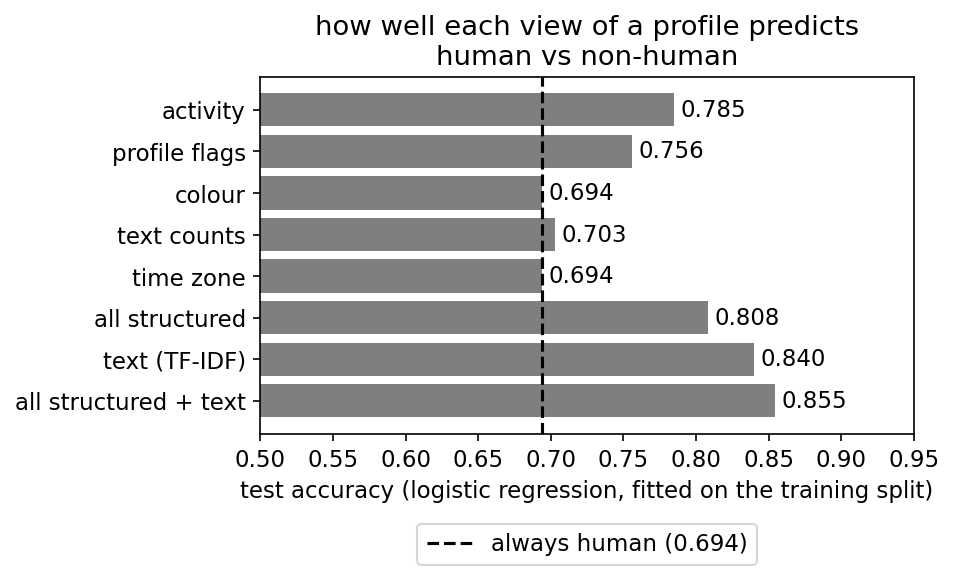
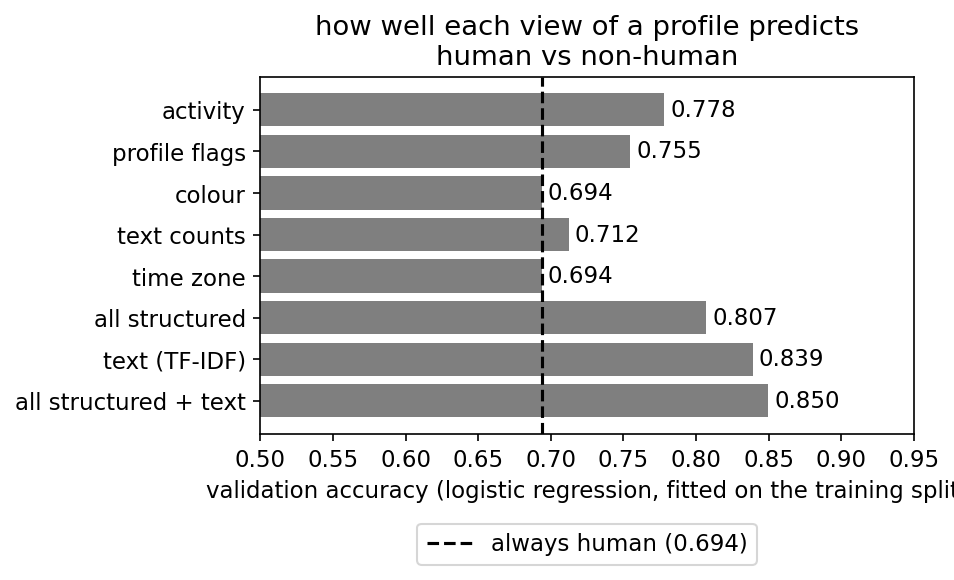
cosmetics change

diff --git a/code/11_amendments.py b/code/11_amendments.py
@@ -82,11 +82,11 @@ def tier_row(g, name):
 
 rows = [tier_row(to_h[to_h["votes"] == v], str(v)) for v in [5, 4, 3, 2, 1]]
 rows += [tier_row(to_h, "all"), tier_row(brands, "all recorded non-human")]
-t108 = pd.DataFrame(rows)
-t108.to_csv(OUT / "amendments_non_human_to_human.csv", index=False)
+non_human_to_human = pd.DataFrame(rows)
+non_human_to_human.to_csv(OUT / "amendments_non_human_to_human.csv", index=False)
 print("\nrecorded non-human -> human: %d | recorded human -> non-human: %d"
       % (len(to_h), (cand["recorded"] == "human").sum()))
-print(t108.to_string(index=False))
+print(non_human_to_human.to_string(index=False))
 print("uploaded image %.1f%% (all recorded non-human %.1f%%) | median favourites %.0f (non-human %.0f, human %.0f)"
       % (100 * (to_h["default_image"] == 0).mean(), 100 * (brands["default_image"] == 0).mean(),
          to_h["fav_number"].median(), brands["fav_number"].median(), humans["fav_number"].median()))
@@ -161,13 +161,13 @@ keep = ["_unit_id", "name", "recorded", "says", "votes", "methods", "fp_desc", "
         "pattern", "action", "reason"]
 suggested[keep].to_csv(OUT / "amendments_suggested.csv", index=False)
 
-t109 = pd.DataFrame([{"pattern": p, "candidates": int((to_nh["pattern"] == p).sum()),
+human_to_non_human = pd.DataFrame([{"pattern": p, "candidates": int((to_nh["pattern"] == p).sum()),
                       "two_or_more_methods": int(((to_nh["pattern"] == p) & (to_nh["votes"] >= 2)).sum()),
                       "suggested_non_human": int(((to_nh["pattern"] == p) & amend_nh).sum())}
                      for p in ["weather channel", "news/feed", "app-written", "forevermore", "other"]])
-t109.loc[len(t109)] = ["all", len(to_nh), int((to_nh["votes"] >= 2).sum()), int(amend_nh.sum())]
-t109.to_csv(OUT / "amendments_human_to_non_human.csv", index=False)
-print(t109.to_string(index=False))
+human_to_non_human.loc[len(human_to_non_human)] = ["all", len(to_nh), int((to_nh["votes"] >= 2).sum()), int(amend_nh.sum())]
+human_to_non_human.to_csv(OUT / "amendments_human_to_non_human.csv", index=False)
+print(human_to_non_human.to_string(index=False))
 
 two = (to_h["votes"] >= 2) & amend_h
 print("\nnon-human -> human: word rule %d; without Foothill_Dance %d amend, %d stay non-human"
@@ -224,8 +224,8 @@ signals = [("first-person word in the description", lab["fp_desc"]),
            ("link in the description", lab["desc_has_url"] == 1),
            ("retweet", lab["has_retweets"] == 1),
            ("all labelled profiles", pd.Series(True, index=lab.index))]
-t110 = pd.DataFrame([{"signal": name, "labelled_profiles": int(m.sum()),
+signals_table = pd.DataFrame([{"signal": name, "labelled_profiles": int(m.sum()),
                       "non_human_pct": round(100 * (lab.loc[m, "label"] == "non_human").mean(), 1)}
                      for name, m in signals])
-t110.to_csv(OUT / "amendments_signals.csv", index=False)
-print("\n" + t110.to_string(index=False))
+signals_table.to_csv(OUT / "amendments_signals.csv", index=False)
+print("\n" + signals_table.to_string(index=False))

diff --git a/code/10_views.py b/code/10_views.py
@@ -22,14 +22,15 @@ MAX_FEATURES = 2000       # same TF-IDF settings as 08_text.py
 
 
 # 1. Load
-# the training and test splits written by 02, and the two text fields
+# the training and validation splits written by 02, and the two text fields; the test split stays
+# untouched here because it was already used once to score the chosen models in 05, 07 and 08
 train = pd.read_csv(PROC / "twitter_train.csv")
-test = pd.read_csv(PROC / "twitter_test.csv")
+test = pd.read_csv(PROC / "twitter_validation.csv")
 text = pd.read_csv(PROC / "twitter_full.csv", usecols=["_unit_id", "desc_clean", "text_clean"]).fillna("")
 train = train.merge(text, on="_unit_id", how="left", validate="one_to_one")
 test = test.merge(text, on="_unit_id", how="left", validate="one_to_one")
 y_train, y_test = train["is_human"].astype(int), test["is_human"].astype(int)
-print("train:", train.shape, "test:", test.shape)
+print("train:", train.shape, "validation:", test.shape)
 
 
 # 2. Views
@@ -67,7 +68,7 @@ def tfidf(part):
 
 
 # 4. Accuracy per view
-# plain logistic regression on the training split, accuracy on the test split
+# plain logistic regression on the training split, accuracy on the validation split
 X = {name: (train[cols].to_numpy(float), test[cols].to_numpy(float)) for name, cols in VIEWS.items()}
 X["text (TF-IDF)"] = (tfidf(train), tfidf(test))
 X["all structured + text"] = (hstack([csr_matrix(X["all structured"][0]), X["text (TF-IDF)"][0]]).tocsr(),
@@ -77,20 +78,20 @@ rows = []
 for name, (X_train, X_test) in X.items():
     model = LogisticRegression(max_iter=3000).fit(X_train, y_train)
     rows.append({"view": name, "features": X_train.shape[1],
-                 "test_accuracy": accuracy_score(y_test, model.predict(X_test))})
+                 "validation_accuracy": accuracy_score(y_test, model.predict(X_test))})
 views = pd.DataFrame(rows)
 baseline = y_test.mean()
 views.to_csv(OUT / "views_accuracy.csv", index=False)
-print("\nlogistic regression per view, test accuracy (always human: %.4f):" % baseline)
+print("\nlogistic regression per view, validation accuracy (always human: %.4f):" % baseline)
 print(views.round(4).to_string(index=False))
 
 plt.figure(figsize=(6.5, 4.2))
-bars = plt.barh(views["view"], views["test_accuracy"], color="tab:gray")
+bars = plt.barh(views["view"], views["validation_accuracy"], color="tab:gray")
 plt.bar_label(bars, fmt="%.3f", padding=3)
 plt.axvline(baseline, color="black", linestyle="--", label="always human (%.3f)" % baseline)
 plt.gca().invert_yaxis()
 plt.xlim(0.5, 0.95)
-plt.xlabel("test accuracy (logistic regression, fitted on the training split)")
+plt.xlabel("validation accuracy (logistic regression, fitted on the training split)")
 plt.title("how well each view of a profile predicts\nhuman vs non-human")
 plt.legend(loc="upper center", bbox_to_anchor=(0.5, -0.22))   # below, clear of the bar labels
 plt.tight_layout()

diff --git a/code/08_text.py b/code/08_text.py
@@ -69,7 +69,7 @@ y_train, y_val, y_test = (part["is_human"].astype(int) for part in [train, val, 
 
 
 # 3. Tokens
-# tokenise and remove stop words (Lab 7 Task 1)
+# tokenise and remove stop words
 def tokens(s):
     return [w for w in nltk.word_tokenize(s) if w not in STOP and len(w) > 2]
 
@@ -81,7 +81,7 @@ print("mean words kept - description:", round(df["desc_tokens"].str.len().mean()
 
 
 # 4. Words by class
-# conditional frequency distribution of the description words (Lab 7 Task 2)
+# conditional frequency distribution of the description words
 label = df["label"]
 pairs = [(lab, w) for lab, toks in zip(label[labelled], df.loc[labelled, "desc_tokens"]) for w in toks]
 cfd = nltk.ConditionalFreqDist(pairs)
@@ -111,7 +111,7 @@ plt.show()
 
 
 # 5. Model comparison
-# TF-IDF + logistic regression per text field, 5-fold CV on the training split (Lab 4)
+# TF-IDF + logistic regression per text field, 5-fold CV on the training split
 # the vectoriser sits inside the pipeline, so its vocabulary is learnt from training rows only
 def text_model(columns):
     tfidf = ColumnTransformer([(c, TfidfVectorizer(max_features=MAX_FEATURES, min_df=5, sublinear_tf=True), c)
@@ -185,7 +185,7 @@ plt.show()
 
 
 # 7. LDA topics
-# topics of the labelled descriptions (Lab 7 Task 3)
+# topics of the labelled descriptions
 docs = df.loc[labelled & (df["desc_tokens"].str.len() >= 3), ["is_human", "desc_tokens"]].copy()
 dictionary = corpora.Dictionary(docs["desc_tokens"])
 dictionary.filter_extremes(no_below=10, no_above=0.4)

diff --git a/code/05_classification.py b/code/05_classification.py
@@ -1,4 +1,4 @@
-# 05_classification.py — decision tree, naive Bayes, KNN, MLP and logistic on the structured features (Lab 4)
+# 05_classification.py — decision tree, naive Bayes, KNN, MLP and logistic on the structured features
 
 from pathlib import Path
 
@@ -157,7 +157,7 @@ plt.show()
 
 
 # 5. t-test between the two best models
-# Lab 4: is the gap in CV accuracy real, or noise?
+# is the gap in CV accuracy real, or noise?
 # logistic regression votes in 07, so the test compares the two best models eligible for this vote
 eligible = comparison.loc[comparison["model"] != "logistic"].sort_values("cv_accuracy", ascending=False)
 top_two = eligible["model"].iloc[:2].tolist()

diff --git a/code/07_logistic_regression.py b/code/07_logistic_regression.py
@@ -1,4 +1,4 @@
-# 07_logistic_regression.py — logistic regression on is_human with RFE; the regression vote (Lab 5, task 2)
+# 07_logistic_regression.py — logistic regression on is_human with RFE; the regression vote
 
 from pathlib import Path
 
@@ -114,7 +114,7 @@ plt.show()
 
 
 # 5. Coefficients and odds ratios
-# log-odds of human per unit of each feature (Week 6)
+# log-odds of human per unit of each feature
 kept = FEATURES if best_name == "full" else [f for f, keep in zip(FEATURES, best_model.support_) if keep]
 fitted = best_model if best_name == "full" else best_model.estimator_
 coefs = pd.DataFrame({"feature": kept, "coef": fitted.coef_[0]})

diff --git a/code/06_linear_regression.py b/code/06_linear_regression.py
@@ -1,4 +1,4 @@
-# 06_linear_regression.py — linear regression on is_human: why a 0/1 outcome needs logistic
+# 06_linear_regression.py — linear regression on is_human: why a 0/1 outcome needs logistic (07)
 
 from pathlib import Path
 
@@ -87,7 +87,7 @@ plt.show()
 
 
 # 4. Evaluation
-# R2 and MSE as in Lab 5, plus accuracy with predictions cut at 0.5 to compare with logistic regression
+# R2 and MSE, plus accuracy with predictions cut at 0.5 to compare with logistic regression
 rows = []
 for split, X, y in [("train", X_train, y_train), ("validation", X_val, y_val), ("test", X_test, y_test)]:
     pred = model.predict(X)

diff --git a/README.md b/README.md
@@ -1,4 +1,5 @@
 # CSCI446/946 Assignment 2 — misrecorded human / non-human Twitter profiles
+
 ## Setup
 
 Python 3.8–3.11 is required. `requirements.txt` pins exactly (`==`) the tested versions every reported
@@ -27,12 +28,12 @@ location. Scripts show every figure with `plt.show()` and also save it; to run w
 |---|---|---|
 | `01_eda.py` | inspect the raw file, record its problems | `fig_eda_*` |
 | `02_preprocess.py` | clean, engineer features, stratified 60/20/20 train/validation/test split | `data/processed/twitter_{full,train,validation,test}.csv`, `fig_preprocess_*` |
-| `03_association_rules.py` | Apriori rules that conclude the label (Lab 6) | `association_{rules,predictions,flagged}.csv`, `fig_association_*` |
-| `04_clustering.py` | k-means, hierarchical, DBSCAN on behaviour features (Lab 3) | `clustering_{assignments,predictions,flagged}.csv`, `fig_clustering_*` |
-| `05_classification.py` | decision tree, KNN, naive Bayes, MLP, logistic; the best non-logistic model votes (Lab 4) | `classification_*.csv`, `fig_classification_*` |
-| `06_linear_regression.py` | Lab 5 `LinearRegression` on `is_human` (0/1): R², MSE and accuracy at 0.5, showing predictions outside [0, 1] and two-band residuals, so logistic (07) is the right tool; does not vote | `regression_linear_{coefficients,model_comparison}.csv`, `fig_regression_linear_*` |
-| `07_logistic_regression.py` | logistic regression on `is_human` with RFE; the regression vote (Lab 5) | `regression_{logistic_model_comparison,logistic_coefficients,predictions,flagged}.csv`, `fig_regression_logistic_*` |
-| `08_text.py` | nltk tokens, TF-IDF + logistic regression, gensim LDA on the text fields only (Lab 7) | `text_{predictions,flagged}.csv`, `fig_text_*` |
+| `03_association_rules.py` | Apriori rules that conclude the label | `association_{rules,predictions,flagged}.csv`, `fig_association_*` |
+| `04_clustering.py` | k-means, hierarchical, DBSCAN on behaviour features | `clustering_{assignments,predictions,flagged}.csv`, `fig_clustering_*` |
+| `05_classification.py` | decision tree, KNN, naive Bayes, MLP, logistic; the best non-logistic model votes | `classification_*.csv`, `fig_classification_*` |
+| `06_linear_regression.py` | `LinearRegression` on `is_human` (0/1): R², MSE and accuracy at 0.5, showing predictions outside [0, 1] and two-band residuals, so logistic (07) is the right tool; does not vote | `regression_linear_{coefficients,model_comparison}.csv`, `fig_regression_linear_*` |
+| `07_logistic_regression.py` | logistic regression on `is_human` with RFE; the regression vote | `regression_{logistic_model_comparison,logistic_coefficients,predictions,flagged}.csv`, `fig_regression_logistic_*` |
+| `08_text.py` | nltk tokens, TF-IDF + logistic regression, gensim LDA on the text fields only | `text_{predictions,flagged}.csv`, `fig_text_*` |
 | `09_consensus.py` | one equal vote per method; ranked review list and unknown-profile suggestions | `consensus_*.csv`, `fig_consensus_agreement.png` |
 | `10_views.py` | logistic regression on each view (activity, profile flags, colour, text counts, time zone, text) | `views_accuracy.csv`, `fig_views_accuracy.png` |
 | `11_amendments.py` | first-person and organisation word groups, the recorded-human patterns and the suggested amendment for every candidate (report Section 11, Tables 11.1–11.2) | `amendments_{non_human_to_human,human_to_non_human,signals,suggested}.csv` |
